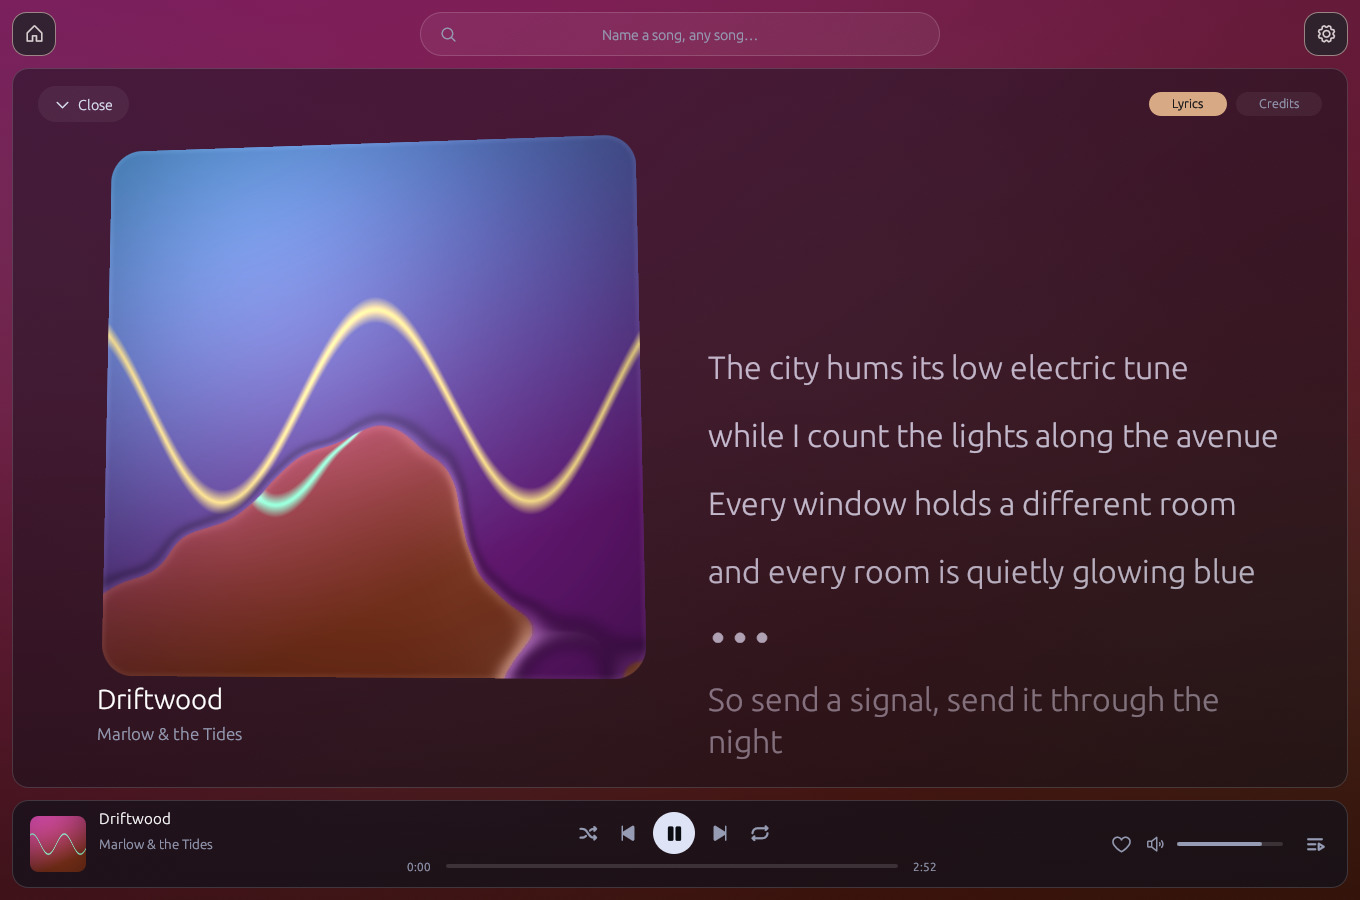
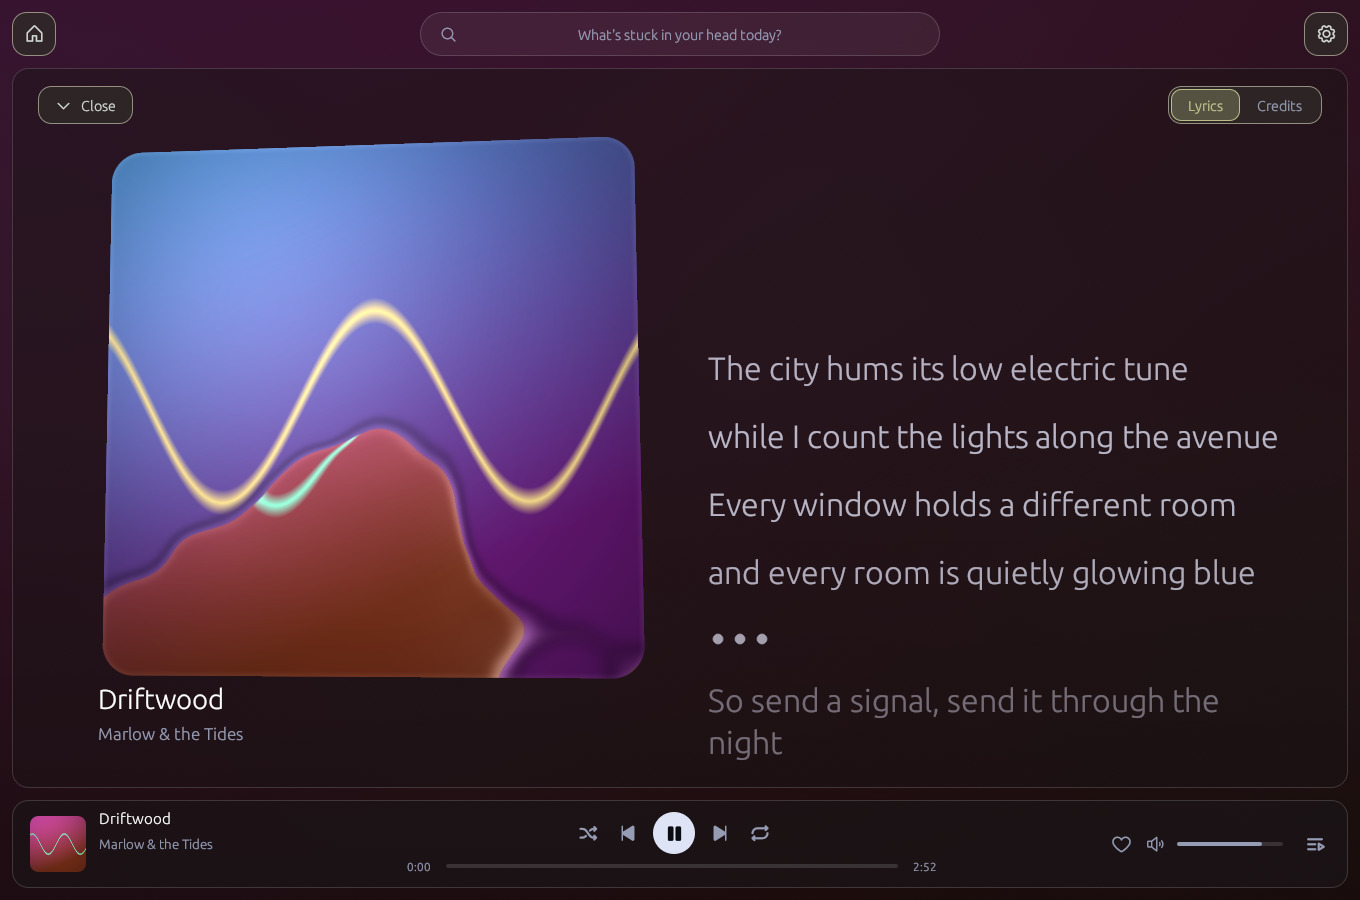
Smooth theme and backdrop glide on song changes (as long as the cover transition); Lyrics/Credits as a glass segmented control, Close as glass button

diff --git a/src/ui.rs b/src/ui.rs
@@ -207,6 +207,46 @@ fn panel_solid_for(tint: Color32) -> Color32 {
     Color32::from_rgb(tint.r() + 3, tint.g() + 3, tint.b() + 4)
 }
 
+/// Eases a value from wherever it is to a new goal over a set time (smoothstep), and starts over
+/// from the current value whenever the goal changes: colours that glide instead of jump.
+pub struct Glide<T> {
+    from: T,
+    goal: T,
+    t0: f64,
+    secs: f32,
+}
+
+impl<T: Copy + PartialEq> Glide<T> {
+    pub fn new(value: T) -> Self {
+        Self { from: value, goal: value, t0: 0.0, secs: 1.0 }
+    }
+
+    fn progress(&self, now: f64) -> f32 {
+        let t = (((now - self.t0) as f32) / self.secs.max(0.01)).clamp(0.0, 1.0);
+        t * t * (3.0 - 2.0 * t)
+    }
+
+    /// The value at `now`. A new `goal` starts a glide of `secs`, `head_start` seconds
+    /// of which have already passed (the song changed a moment ago).
+    pub fn at(&mut self, now: f64, goal: T, secs: f32, head_start: f32, lerp: impl Fn(T, T, f32) -> T) -> T {
+        if goal != self.goal {
+            self.from = lerp(self.from, self.goal, self.progress(now));
+            self.goal = goal;
+            self.secs = secs.max(0.2);
+            self.t0 = now - (head_start as f64).clamp(0.0, self.secs as f64 * 0.6);
+        }
+        lerp(self.from, self.goal, self.progress(now))
+    }
+
+    pub fn done(&self, now: f64) -> bool {
+        (now - self.t0) as f32 >= self.secs
+    }
+
+    pub fn secs(&self) -> f32 {
+        self.secs
+    }
+}
+
 /// Blend towards `to` (used to ease the theme when the song changes).
 pub fn lerp_theme(from: Theme, to: Theme, t: f32) -> Theme {
     Theme {
@@ -727,7 +767,7 @@ pub fn action_button(ui: &mut Ui, icon: &str, label: &str, primary: bool) -> Res
     let (fill, ink) = match (enabled, primary, resp.hovered()) {
         (false, _, _) => (CARD, TEXT_DIM),
         (true, true, false) => (accent(), BG),
-        (true, true, true) => (Color32::from_rgb(190, 238, 185), BG),
+        (true, true, true) => (lerp_color(accent(), Color32::WHITE, 0.25), BG),
         (true, false, false) => (CARD, TEXT),
         (true, false, true) => (CARD_HOVER, TEXT),
     };
@@ -744,6 +784,93 @@ pub fn action_button(ui: &mut Ui, icon: &str, label: &str, primary: bool) -> Res
     }
     p.galley(egui::pos2(x, rect.center().y - galley.size().y * 0.5), galley, ink);
     resp
+}
+
+/// Fill and edge of the glass controls (header buttons, tabs): the panel glass with a breath of
+/// the accent, more when hovered or selected.
+pub fn glass_colors(hovered: bool, active: bool) -> (Color32, Color32) {
+    let glow = if active { 0.26 } else if hovered { 0.17 } else { 0.08 };
+    let fill = with_alpha(lerp_color(panel_solid(), accent(), glow), if hovered || active { 238 } else { 220 });
+    let edge = if active {
+        with_alpha(accent(), 160)
+    } else if hovered {
+        with_alpha(accent(), 100)
+    } else {
+        with_alpha(lerp_color(Color32::WHITE, accent(), 0.5), 56)
+    };
+    (fill, edge)
+}
+
+/// A glass button with an icon and a label, the height of the segmented control.
+pub fn glass_button(ui: &mut Ui, icon: &str, label: &str) -> Response {
+    let text_w = ui.painter().layout_no_wrap(label.to_string(), FontId::proportional(14.0), TEXT).size().x;
+    let icon_w = if icon.is_empty() { 0.0 } else { 26.0 };
+    let (rect, resp) = ui.allocate_exact_size(egui::vec2(text_w + icon_w + 34.0, 38.0), Sense::click());
+    pointer_on_hover(&resp);
+    let (fill, edge) = glass_colors(resp.hovered(), false);
+    let p = ui.painter();
+    let radius = CornerRadius::same(13);
+    p.rect_filled(rect, radius, fill);
+    p.rect_stroke(rect, radius, Stroke::new(1.0_f32, edge), egui::StrokeKind::Inside);
+    let ink = lerp_color(TEXT, accent(), if resp.hovered() { 0.5 } else { 0.3 });
+    let mut x = rect.left() + 17.0;
+    if !icon.is_empty() {
+        paint_icon(p, egui::pos2(x + 8.0, rect.center().y), icon, 17.0, ink, FontFamily::Proportional);
+        x += icon_w;
+    }
+    p.text(egui::pos2(x, rect.center().y), Align2::LEFT_CENTER, label, FontId::proportional(14.0), ink);
+    resp
+}
+
+/// Tabs in one glass capsule; the highlight slides to the chosen one. Returns the index clicked.
+pub fn segmented(ui: &mut Ui, id: egui::Id, labels: &[&str], selected: usize) -> Option<usize> {
+    let font = FontId::proportional(14.0);
+    let widths: Vec<f32> = labels
+        .iter()
+        .map(|l| ui.painter().layout_no_wrap((*l).to_string(), font.clone(), TEXT).size().x + 34.0)
+        .collect();
+    let total: f32 = widths.iter().sum::<f32>() + 6.0;
+    let (rect, _) = ui.allocate_exact_size(egui::vec2(total, 38.0), Sense::hover());
+    let (fill, edge) = glass_colors(false, false);
+    let p = ui.painter();
+    p.rect_filled(rect, CornerRadius::same(13), fill);
+    p.rect_stroke(rect, CornerRadius::same(13), Stroke::new(1.0_f32, edge), egui::StrokeKind::Inside);
+
+    // where each segment is, and the highlight gliding to the chosen one
+    let mut x = rect.left() + 3.0;
+    let slots: Vec<Rect> = widths
+        .iter()
+        .map(|w| {
+            let r = Rect::from_min_size(egui::pos2(x, rect.top() + 3.0), egui::vec2(*w, 32.0));
+            x += w;
+            r
+        })
+        .collect();
+    let target = slots.get(selected).copied().unwrap_or(rect);
+    let glide_x = ui.ctx().animate_value_with_time(id.with("x"), target.left(), 0.18);
+    let glide_w = ui.ctx().animate_value_with_time(id.with("w"), target.width(), 0.18);
+    let mark = Rect::from_min_size(egui::pos2(glide_x, target.top()), egui::vec2(glide_w, target.height()));
+    let p = ui.painter();
+    p.rect_filled(mark, CornerRadius::same(10), with_alpha(lerp_color(panel_solid(), accent(), 0.34), 255));
+    p.rect_stroke(mark, CornerRadius::same(10), Stroke::new(1.0_f32, with_alpha(accent(), 150)), egui::StrokeKind::Inside);
+
+    let mut clicked = None;
+    for (i, (slot, label)) in slots.iter().zip(labels).enumerate() {
+        let resp = ui.interact(*slot, id.with(i), Sense::click());
+        pointer_on_hover(&resp);
+        if resp.clicked() {
+            clicked = Some(i);
+        }
+        let ink = if i == selected {
+            accent()
+        } else if resp.hovered() {
+            TEXT
+        } else {
+            TEXT_DIM
+        };
+        ui.painter().text(slot.center(), Align2::CENTER_CENTER, *label, font.clone(), ink);
+    }
+    clicked
 }
 
 /// A compact toggle pill with a text label.
@@ -945,5 +1072,29 @@ mod theme_tests {
         assert_eq!(lerp_theme(a, b, 1.0), b);
         let mid = lerp_theme(a, b, 0.5);
         assert!(mid != a && mid != b);
+    }
+
+    #[test]
+    fn a_glide_starts_from_where_it_is_and_takes_its_time() {
+        let lerp = |a: f32, b: f32, t: f32| a + (b - a) * t;
+        let mut g = Glide::new(0.0_f32);
+        assert_eq!(g.at(10.0, 0.0, 2.0, 0.0, lerp), 0.0);
+        // a new goal: nothing happens at once, then it moves smoothly, and it ends on the goal
+        assert_eq!(g.at(10.0, 1.0, 2.0, 0.0, lerp), 0.0);
+        let mid = g.at(11.0, 1.0, 2.0, 0.0, lerp);
+        assert!((mid - 0.5).abs() < 1e-5, "{mid}");
+        assert!(!g.done(11.0));
+        assert_eq!(g.at(12.5, 1.0, 2.0, 0.0, lerp), 1.0);
+        assert!(g.done(12.5));
+        // a goal that changes midway starts from the value reached so far, not from the old start
+        let mut g = Glide::new(0.0_f32);
+        g.at(0.0, 1.0, 2.0, 0.0, lerp);
+        let reached = g.at(1.0, 1.0, 2.0, 0.0, lerp);
+        let after = g.at(1.0, 0.0, 2.0, 0.0, lerp);
+        assert!((after - reached).abs() < 1e-5, "no jump: {reached} -> {after}");
+        // a head start shortens the wait (the song changed before the colours were known)
+        let mut g = Glide::new(0.0_f32);
+        g.at(5.0, 1.0, 4.0, 2.0, lerp);
+        assert!((g.at(5.0, 1.0, 4.0, 2.0, lerp) - 0.5).abs() < 1e-5);
     }
 }

diff --git a/src/app.rs b/src/app.rs
@@ -324,6 +324,8 @@ pub struct App {
     bg_colors: [Color32; 3],
     /// The interface colours currently shown (eased the same way).
     theme: ui::Theme,
+    theme_glide: ui::Glide<ui::Theme>,
+    bg_glide: ui::Glide<[Color32; 3]>,
     /// The last song colours found; kept while the next cover is still loading, so the colours
     /// do not flash to the defaults and back at every song change.
     last_palette: Option<[Color32; 3]>,
@@ -468,6 +470,8 @@ impl App {
             blur_tex: HashMap::new(),
             bg_colors: ui::DEFAULT_PALETTE,
             theme: ui::Theme::default(),
+            theme_glide: ui::Glide::new(ui::Theme::default()),
+            bg_glide: ui::Glide::new(ui::DEFAULT_PALETTE),
             last_palette: None,
             bar_cover: None,
             wall_url: None,
@@ -3351,16 +3355,17 @@ impl App {
         let Some(track) = self.current.clone() else { return };
         let mut close = false;
 
-        // top bar: close on the left, tabs on the right
+        // top bar: close on the left, tabs on the right, in the look of the header buttons
         ui.horizontal(|ui| {
-            if action_button(ui, icons::CARET_DOWN, "Close", false).clicked() {
+            if ui::glass_button(ui, icons::CARET_DOWN, "Close").clicked() {
                 close = true;
             }
             ui.with_layout(egui::Layout::right_to_left(egui::Align::Center), |ui| {
-                for (tab, label) in [(NowTab::Credits, "Credits"), (NowTab::Lyrics, "Lyrics")] {
-                    if pill(ui, label, self.now_tab == tab, 30.0 + label.chars().count() as f32 * 8.0).clicked() {
-                        self.now_tab = tab;
-                    }
+                let selected = if self.now_tab == NowTab::Lyrics { 0 } else { 1 };
+                match ui::segmented(ui, egui::Id::new("now_tabs"), &["Lyrics", "Credits"], selected) {
+                    Some(0) => self.now_tab = NowTab::Lyrics,
+                    Some(_) => self.now_tab = NowTab::Credits,
+                    None => {}
                 }
             });
         });
@@ -4384,29 +4389,19 @@ impl eframe::App for App {
             _ => ui::Theme::default(),
         };
         let dt = ctx.input(|i| i.stable_dt).min(0.1);
-        let ease = 1.0 - (-dt * 3.2).exp();
-        let mut moving = false;
-        for (cur, tgt) in self.bg_colors.iter_mut().zip(target) {
-            let next = ui::lerp_color(*cur, tgt, ease);
-            if next == *cur && *cur != tgt {
-                // close enough: snapping avoids stalling on integer rounding
-                *cur = tgt;
-                moving = true;
-            } else if next != *cur {
-                *cur = next;
-                moving = true;
-            }
-        }
-        // the interface colours glide to the new song's the same way
-        let mut next_theme = ui::lerp_theme(self.theme, target_theme, ease);
-        if next_theme == self.theme && self.theme != target_theme {
-            next_theme = target_theme;
-        }
-        if next_theme != self.theme {
-            self.theme = next_theme;
+        // The colours glide to the next song's over as long as its cover transition (the
+        // crossfade, if there is one) and start with the song, not when the cover arrives.
+        let now = ctx.input(|i| i.time);
+        let age = self.track_changed.elapsed().as_secs_f32();
+        let (secs, head) = if age < 2.5 { (self.cover_flood_secs.clamp(1.4, 10.0), age) } else { (1.0, 0.0) };
+        let lerp3 = |a: [Color32; 3], b: [Color32; 3], t: f32| [ui::lerp_color(a[0], b[0], t), ui::lerp_color(a[1], b[1], t), ui::lerp_color(a[2], b[2], t)];
+        self.bg_colors = self.bg_glide.at(now, target, secs, head, lerp3);
+        let theme = self.theme_glide.at(now, target_theme, secs, head, ui::lerp_theme);
+        let moving = !self.bg_glide.done(now) || !self.theme_glide.done(now);
+        if theme != self.theme {
+            self.theme = theme;
             ui::set_theme(self.theme);
             ui::apply_visuals(ctx);
-            moving = true;
         }
         if moving {
             ctx.request_repaint();
@@ -4439,7 +4434,7 @@ impl eframe::App for App {
             self.wall_t = 0.0;
         }
         if self.wall_t < 1.0 {
-            self.wall_t = (self.wall_t + dt / 0.8).min(1.0);
+            self.wall_t = (self.wall_t + dt / self.bg_glide.secs().max(0.8)).min(1.0);
             ctx.request_repaint();
         }
         let tex = |u: &Option<String>| u.as_ref().and_then(|u| self.blur_tex.get(u)).map(|t| t.id());
@@ -5367,20 +5362,10 @@ fn top_tile(
     color: Color32,
     family: egui::FontFamily,
 ) {
-    // the dark glass of the panels, with a breath of the accent when hovered or selected
-    let glow = if active { 0.26 } else if hovered { 0.17 } else { 0.08 };
-    let base = ui::panel_solid();
-    let fill = ui::with_alpha(ui::lerp_color(base, accent(), glow), if hovered || active { 238 } else { 220 });
+    let (fill, edge) = ui::glass_colors(hovered, active);
     let painter = ui.painter();
     let radius = egui::CornerRadius::same(14);
     painter.rect_filled(tile, radius, fill);
-    let edge = if active {
-        ui::with_alpha(accent(), 160)
-    } else if hovered {
-        ui::with_alpha(accent(), 100)
-    } else {
-        ui::with_alpha(ui::lerp_color(Color32::WHITE, accent(), 0.5), 56)
-    };
     painter.rect_stroke(tile, radius, egui::Stroke::new(1.0_f32, edge), egui::StrokeKind::Inside);
     // the icon takes a little of the accent too
     let ink = if active { color } else { ui::lerp_color(color, accent(), if hovered { 0.5 } else { 0.3 }) };
